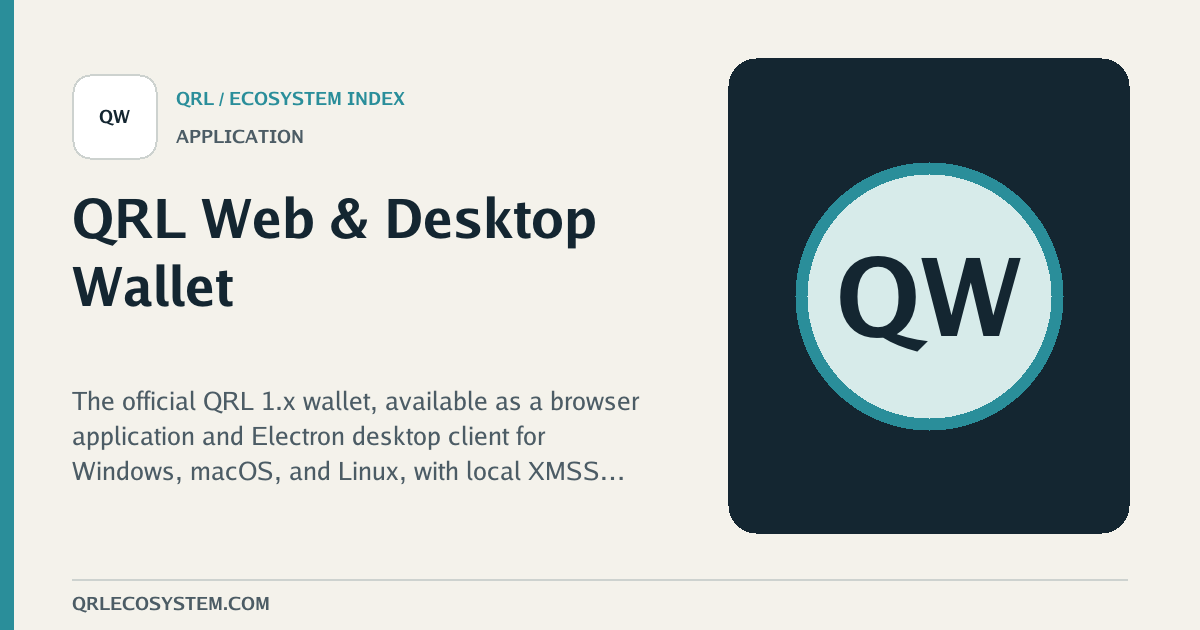
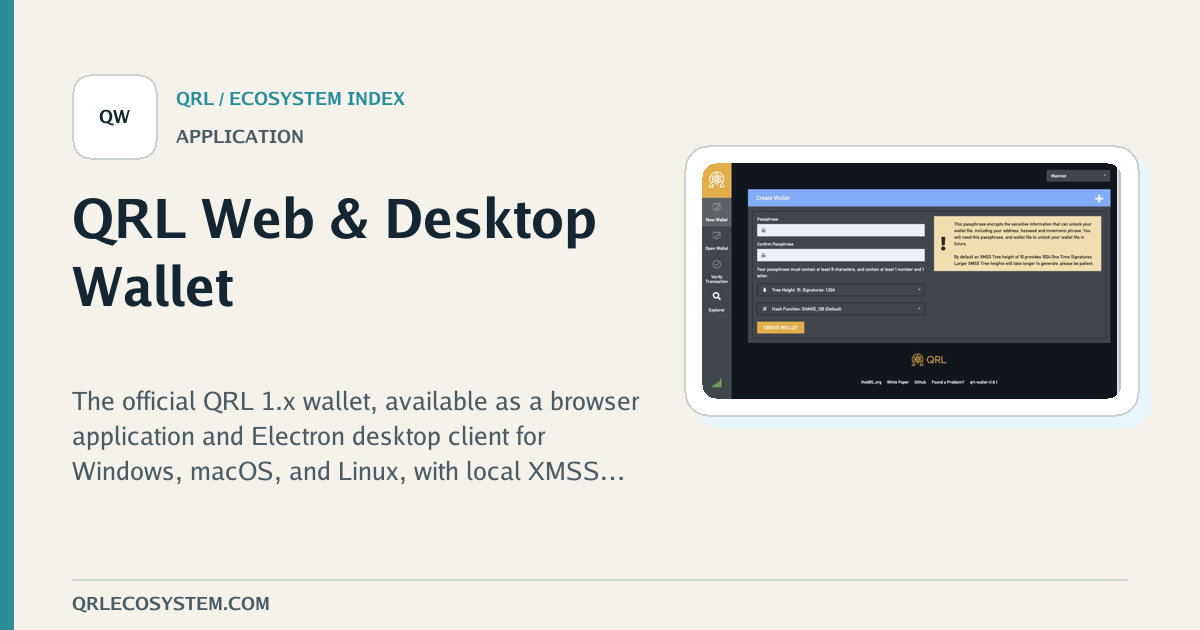
Add gallery for QRL Walelt

Changed region(s): [[0.5858, 0.0905, 0.9558, 0.8746]]

diff --git a/website/content/projects/active/qrl-wallet.md b/website/content/projects/active/qrl-wallet.md
@@ -10,7 +10,7 @@ categories:
     - security-custody-account-management
     - payments-commerce
     - assets-tokenization
-data_updated_at: "2026-08-17"
+data_updated_at: "2026-08-24"
 description: The official QRL 1.x wallet, available as a browser application and Electron desktop client for Windows, macOS, and Linux, with local XMSS operations and Ledger hardware-wallet support.
 display_status: Stable · Mainnet + Testnet
 features:
@@ -18,6 +18,13 @@ features:
     - Electron desktop releases for Windows, macOS, and Linux
     - Wallet creation, import, transactions, tokens, messages, and on-chain tools
     - Ledger Nano X and Nano S Plus integration
+gallery:
+    - type: image
+      path: qrl-wallet/create-wallet.jpg
+      caption: Web Wallet creation screen with passphrase, XMSS tree-height, and hash-function options.
+    - type: image
+      path: qrl-wallet/open-wallet.jpg
+      caption: Web Wallet access screen with wallet-file selection, optional passphrase, and unlock controls.
 id: qrl-wallet
 keywords:
     - wallet
